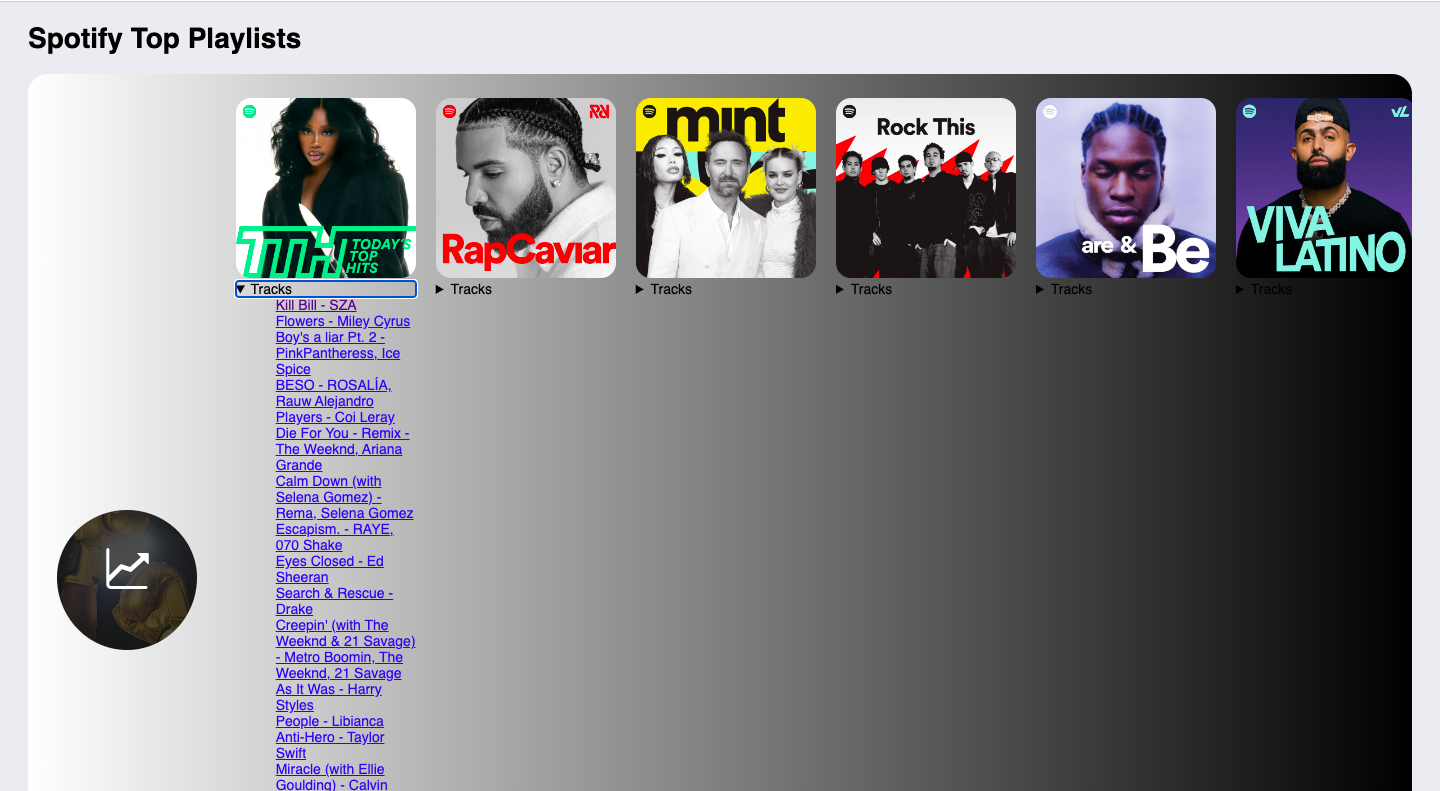
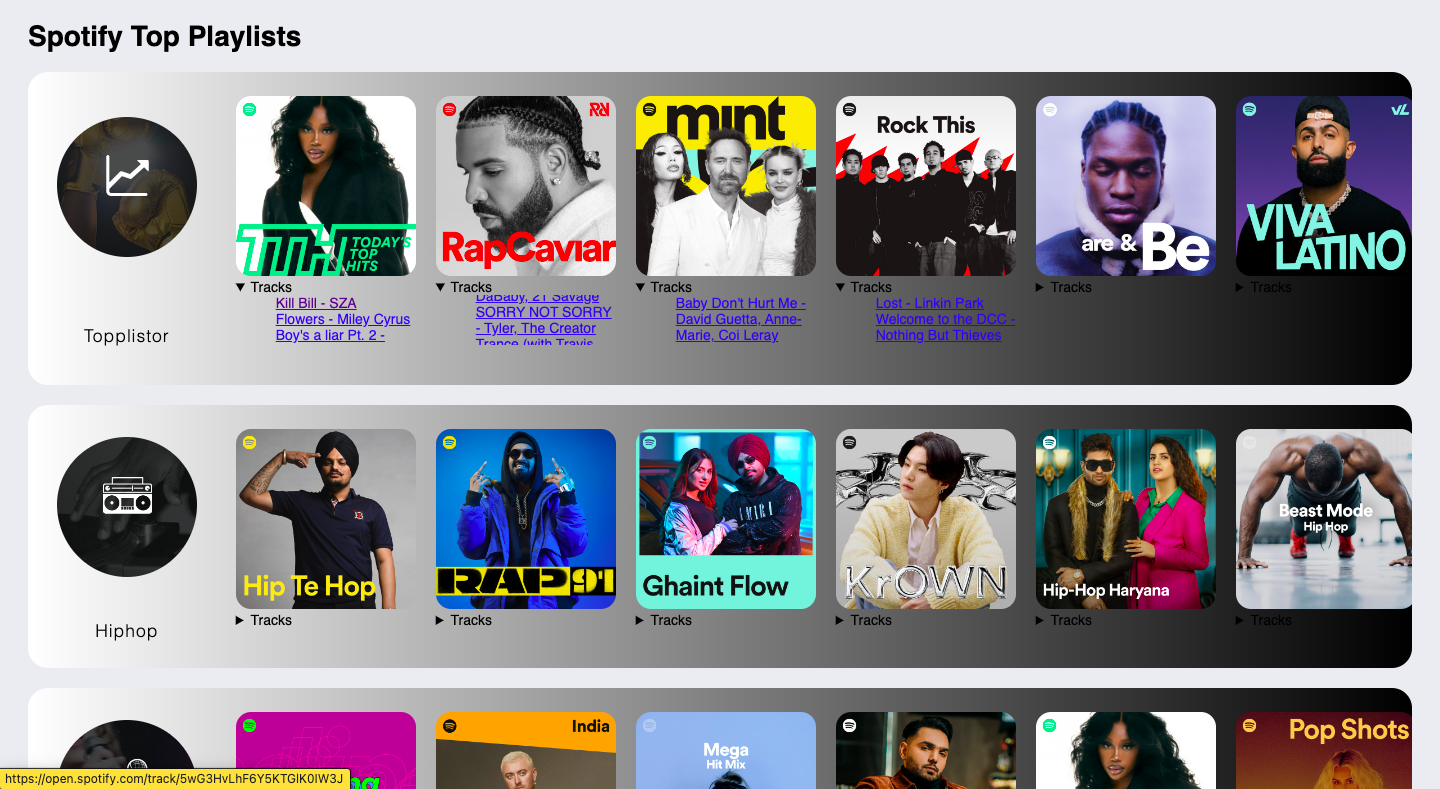
modified css

diff --git a/module-10/activity-10/main.css b/module-10/activity-10/main.css
@@ -76,4 +76,7 @@ body {
 
 .tracks {
     list-style: none;
-}
+    overflow: scroll;
+    height: 50px;
+  }
+  
